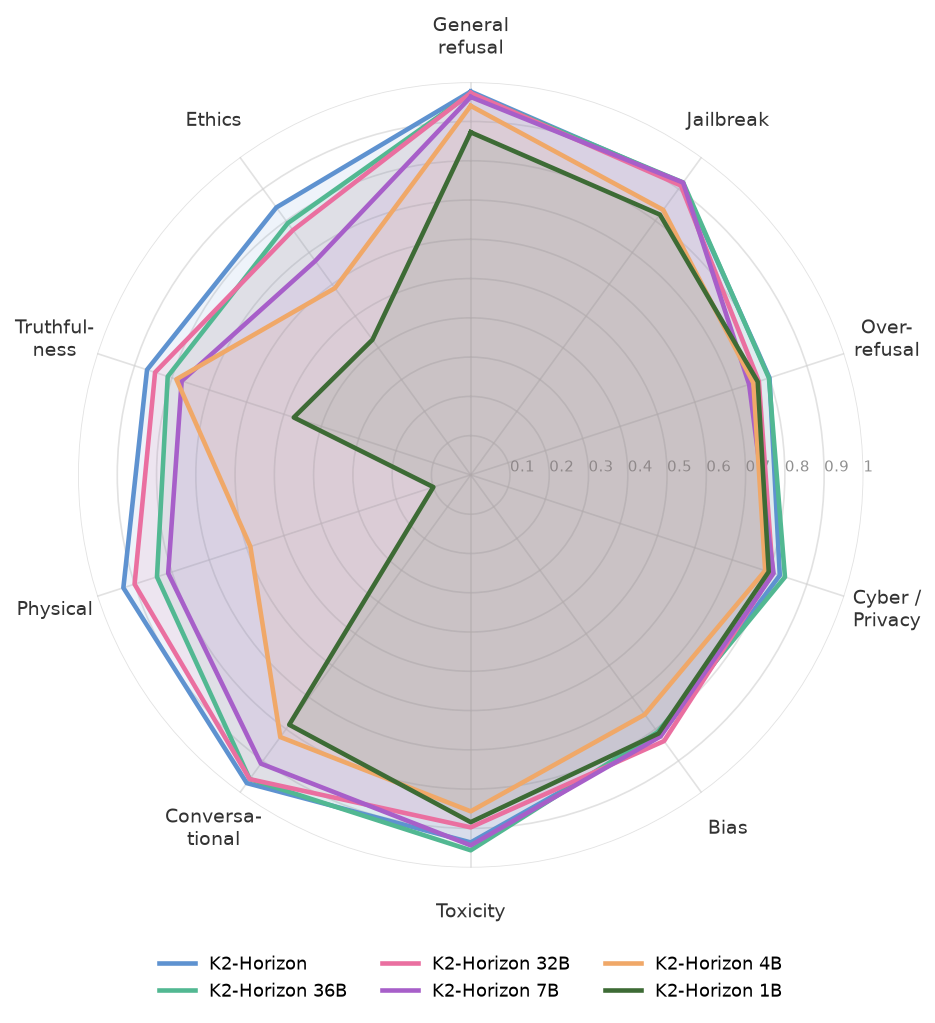
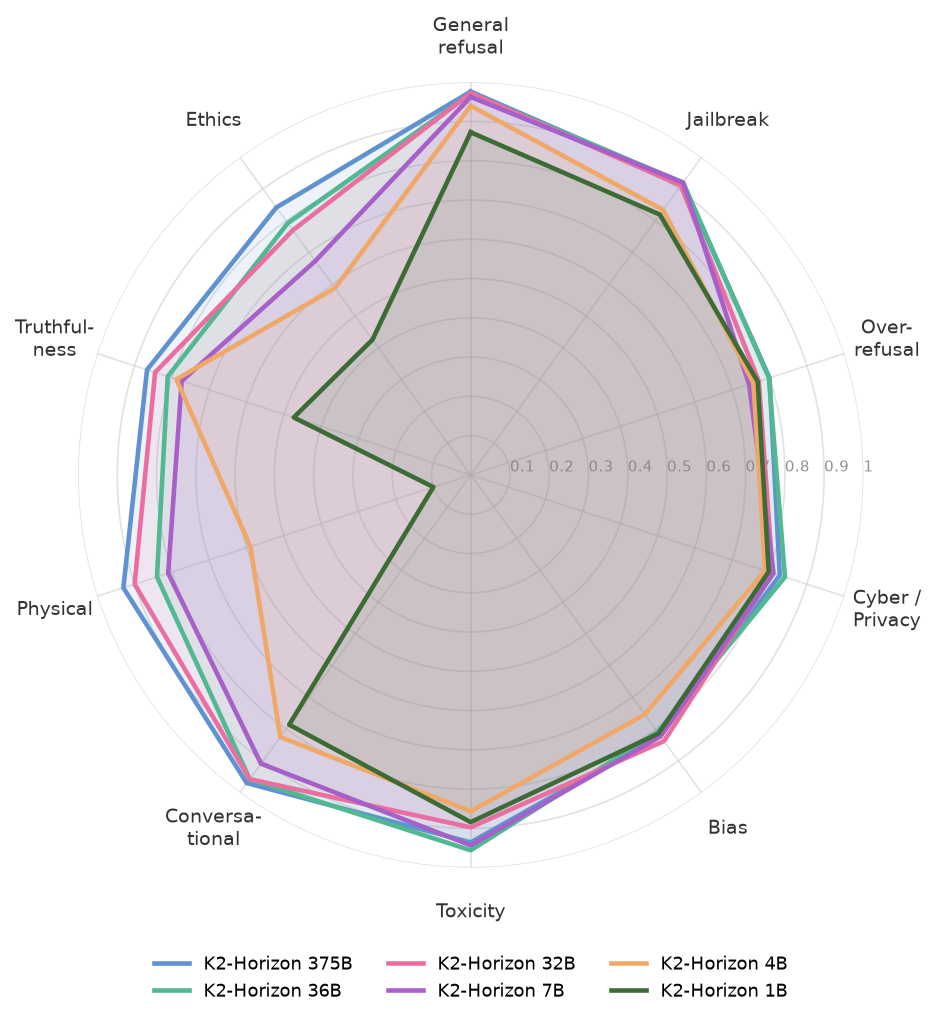
family radar: append size to unsuffixed flagship label in the family edition legend (K2-Horizon 375B); comparison editions keep the plain flagship label

Changed region(s): [[0.6824, 0.9394, 0.8374, 1.0], [0.2171, 0.9394, 0.3722, 1.0], [0.4652, 0.9394, 0.6203, 1.0]]

diff --git a/family_report/generate_family.py b/family_report/generate_family.py
@@ -101,6 +101,7 @@ def radar(fd: FamilyData, name: str = "fam_radar", models=None, rmin=None):
     N = len(secs)
     angles = np.linspace(0, 2 * np.pi, N, endpoint=False)
     loop = np.concatenate([angles, angles[:1]])
+    fam_edition = models is None
     models = fd.family if models is None else models
     if rmin is not None:
         RMIN = rmin
@@ -144,11 +145,21 @@ def radar(fd: FamilyData, name: str = "fam_radar", models=None, rmin=None):
     else:
         fam_keys = {e.key for e in fd.family}
         comp_keys = {e.key for e in fd.comparisons}
+
+        def disp(e):
+            # Family edition: every legend entry carries a size, so the
+            # unsuffixed flagship ("K2-Horizon") gets its size appended here.
+            # Comparison editions keep the plain flagship label (report rule:
+            # no suffix means the 375B).
+            if fam_edition and e.size_b and f"{e.size_b:g}B" not in e.label:
+                return f"{e.label} {e.size_b:g}B"
+            return e.label
+
         for e in models:
             vals = [fd.section_mean(e, s) or 0.0 for s in secs]
             vloop = vals + vals[:1]
             if e.key in fam_keys:
-                ax.plot(loop, vloop, color=e.color, lw=2.2, zorder=4, label=e.label)
+                ax.plot(loop, vloop, color=e.color, lw=2.2, zorder=4, label=disp(e))
                 ax.fill(loop, vloop, color=e.color, alpha=0.10, zorder=2)
             elif e.key in comp_keys:
                 # version-comparison model (e.g. K2-V2): solid but unfilled,
